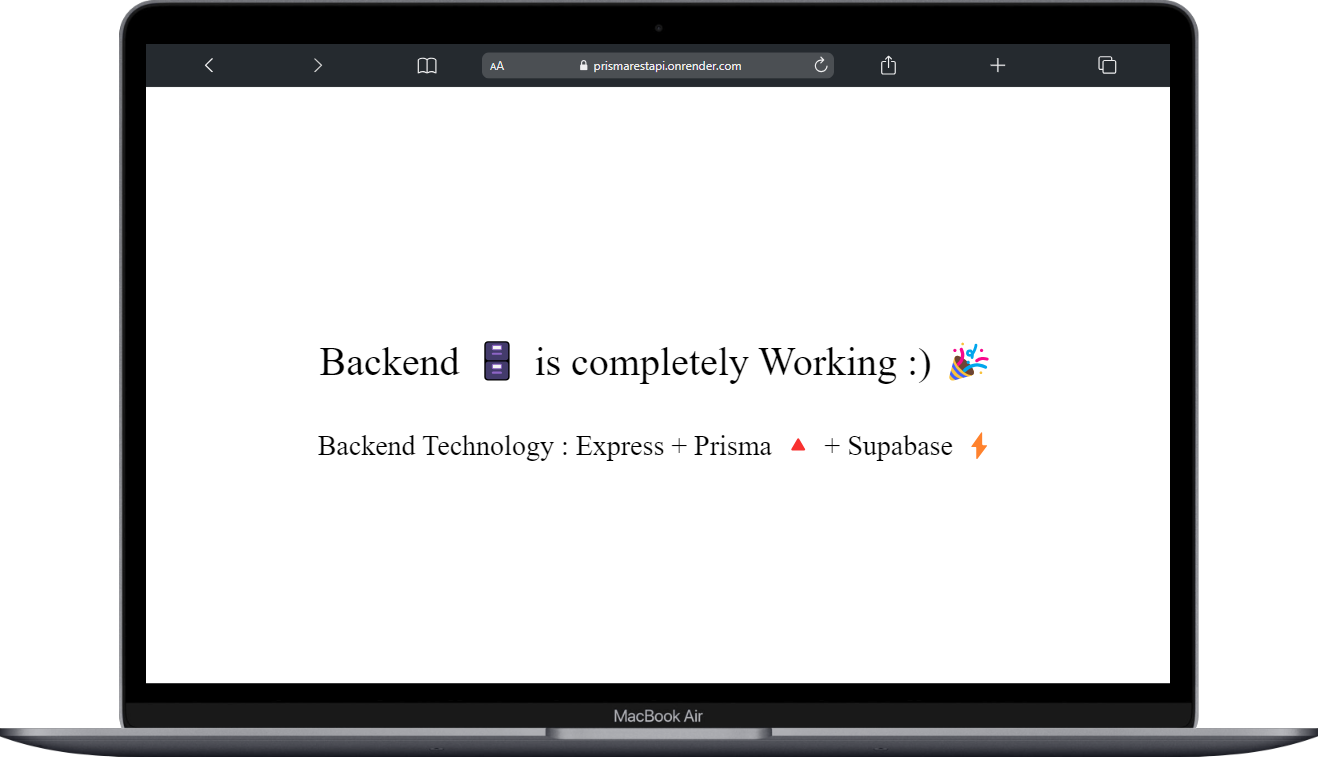
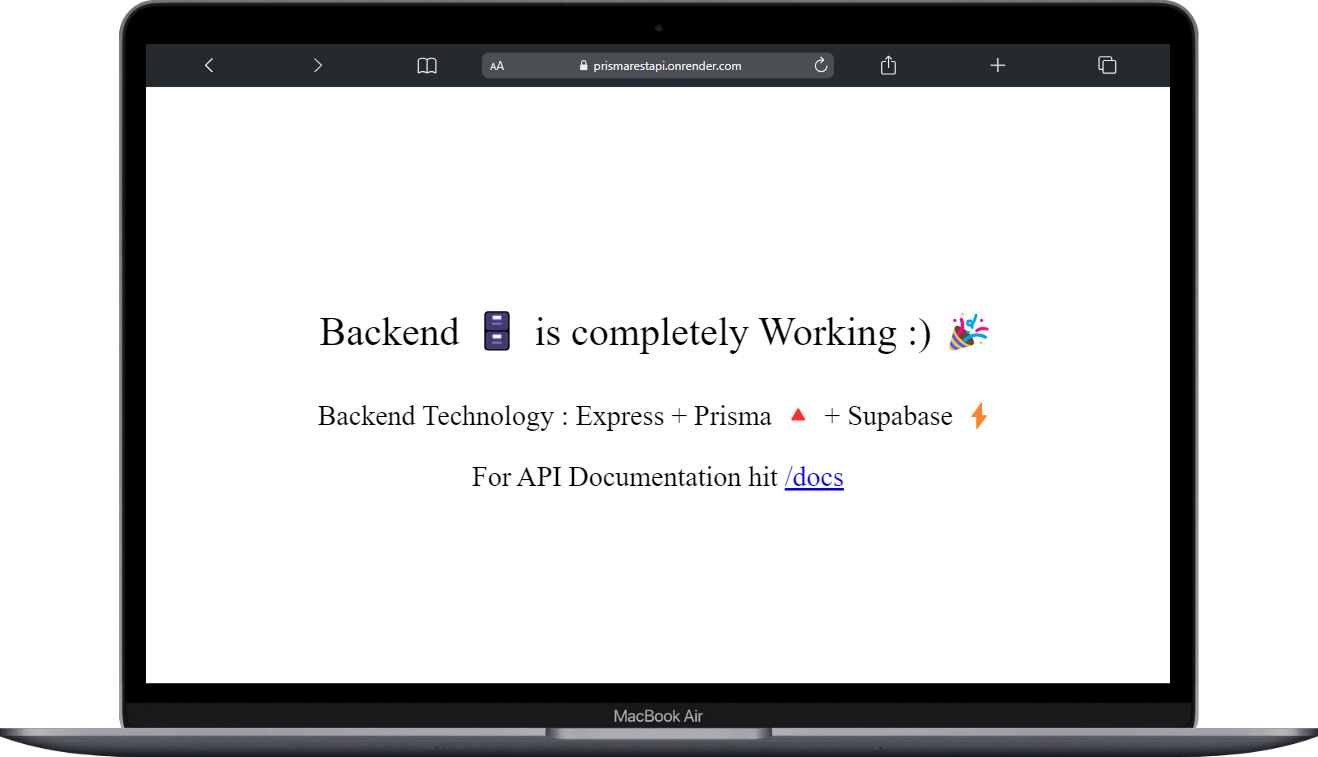
update image related Api docs

Changed region(s): [[0.2178, 0.395, 0.7466, 0.6684]]

diff --git a/README.md b/README.md
@@ -25,7 +25,8 @@ This api is learning purpose only and it 's tech stack is below
 ### Database (Table) Diagram
 ![Database](livedemoimage/SupabseDiagram.png)
 
-
+### Api Docs
+![ApiDocs](livedemoimage/Apidocs.png)
 
 
 ## Contributing
